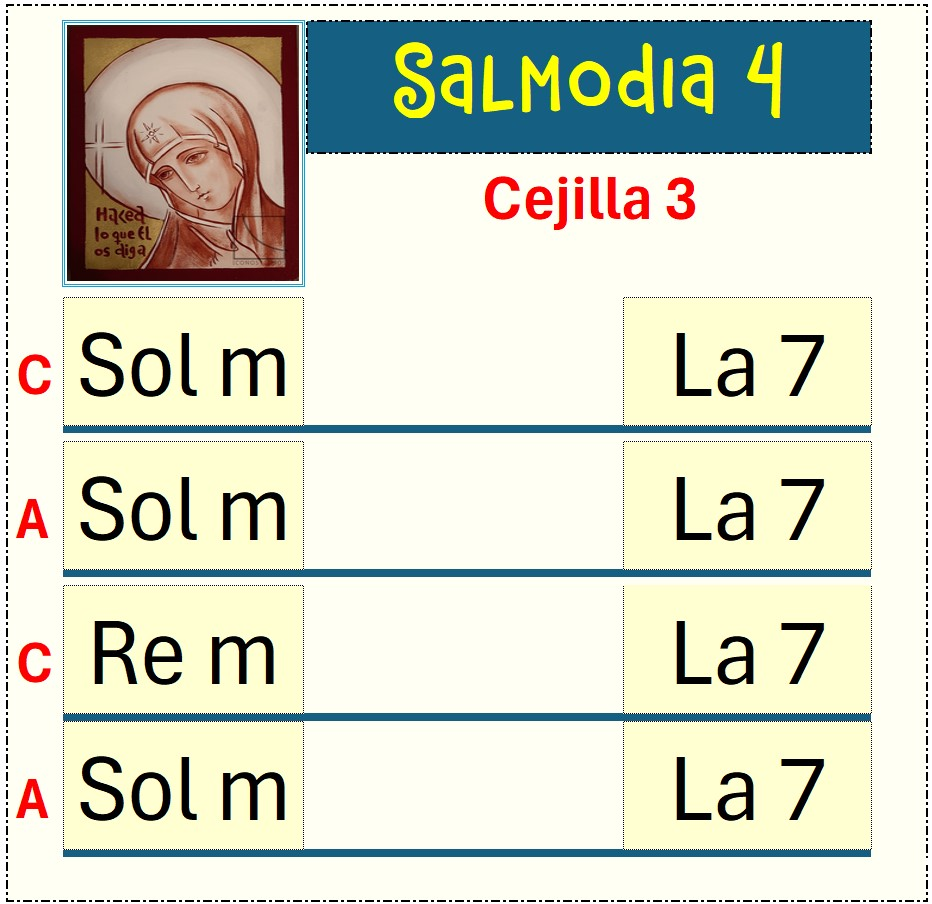
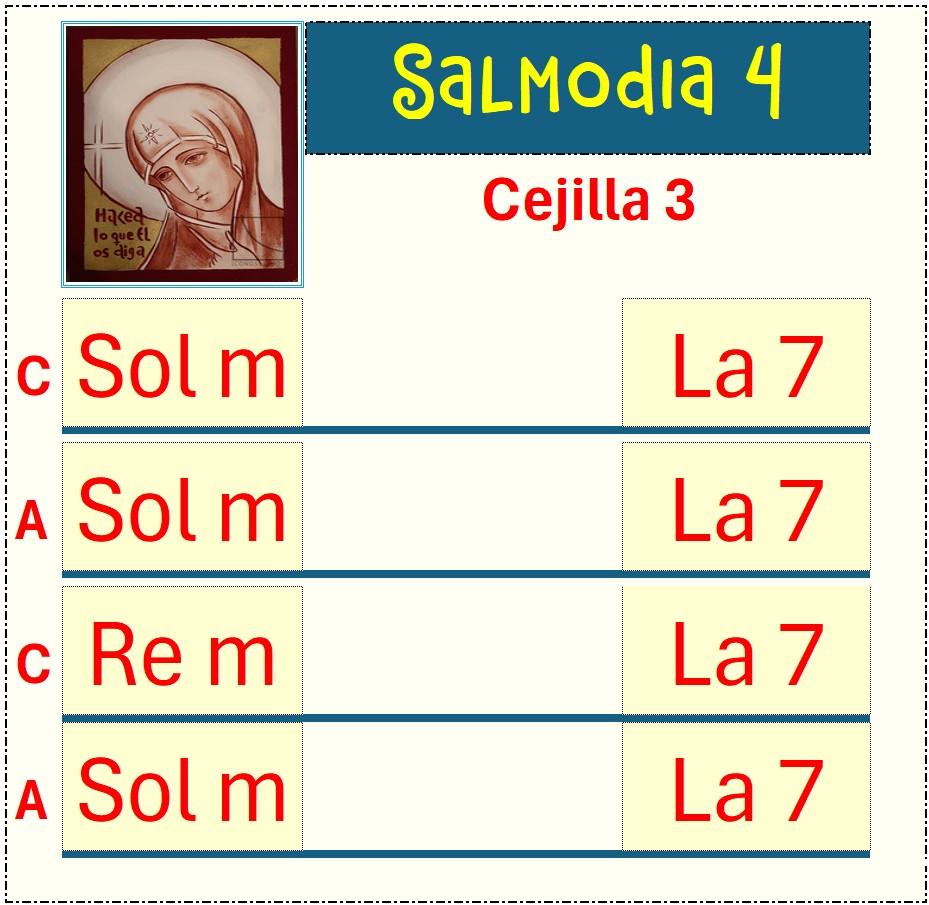
update

diff --git a/src/css/cssgral.css b/src/css/cssgral.css
@@ -133,6 +133,8 @@ body.dark-theme .cristo-oscuro {
     --TrasfondoCanto-Eleccion: rgba(206, 255, 207, 0.2); /* #CEFFCF con 20% de opacidad */
 
     --Cristal-Cristo: inherit;
+
+    --chord-color-salmodia: #FFFF00; /* Amarillo */
 } /* FIN DE ROOT */
 
 /* MODO OSCURO (Valores que camb0ian) */
@@ -717,7 +719,7 @@ display: none;}
 
 .modal-content {
     background-color: #fff;
-    padding: 30px;
+    padding: 4px;
     border-radius: 10px;
     box-shadow: 0 5px 20px rgba(0, 0, 0, 0.3);
     max-width: 400px;
@@ -1156,6 +1158,13 @@ hr {
 .chord-image-item.chord-color-la { background-color: var(--chord-color-la); }
 .chord-image-item.chord-color-la6 { background-color: var(--chord-color-la); }
 .chord-image-item.chord-color-si { background-color: var(--chord-color-si); }
+.chord-image-item.chord-color-salmodia { background-color: var(--chord-color-salmodia); }
+.chord-image-item.chord-color-salmodia1 { background-color: var(--chord-color-salmodia); }
+
+.chord-image-item.chord-color-salodia { background-color: var(--chord-color-salmodia); }
+.chord-image-item.chord-color-salodia1 { background-color: var(--chord-color-salmodia); }
+.chord-image-item.chord-color-sal { background-color: var(--chord-color-salmodia); }
+
 
 /* Sobrescribir el color del texto para los acordes de Mi a negro */
 
@@ -1163,24 +1172,70 @@ hr {
 .chord-image-item.chord-color-mi6 span {color: black;}
 .chord-image-item.chord-color-mia span {color: black;}
 .chord-image-item.chord-color-miaj span {color: black;}
+.chord-image-item.chord-color-salmodia span {color: black;}
+.chord-image-item.chord-color-salodia span {color: black;}
+.chord-image-item.chord-color-salodia1 span {color: black;}
+.chord-image-item.chord-color-sal span {color: black;}
 
 
 /* Estilos para la nueva modal de imagen grande */
-.modal-content.large-image-content {
+.modal-content.chord-color-salmodia {
     max-width: 90vw; /* Más ancho para la imagen grande */
-    max-height: 90vh; /* Más alto para la imagen grande */
-    padding: 10px; /* Reducir padding para que la imagen ocupe más espacio */
+    
+}
+.modal-content.large-image-content {
+
+    max-width: 40%;
+    /*max-height: auto; */
+
+/*  max-width: 90vw; /* Más ancho para la imagen grande */
+/*  max-height: 90vh; /* Más alto para la imagen grande */
+    /*padding: 10px; /* Reducir padding para que la imagen ocupe más espacio */
     background-color: transparent; /* Fondo transparente para la imagen */
     box-shadow: none; /* Sin sombra para la imagen */
 }
+/*    @media (min-width: 384px) {.modal-content.large-image-content {
+        max-width: 95%;
+        padding: 1px;
+        background: white;
+        border-radius: 12px 12px 12px 12px;
+    }}*/
+    @media (min-width: 384px) {.modal-content.large-image-content {max-width: 100%;}}
+    @media (min-width: 768px) {.modal-content.large-image-content {max-width: 80%;}}
+
+    @media (min-width: 992px) {.modal-content.large-image-content {
+        
+        max-width: 50%;
+        width: max-content;
+        
+    }}
+
 
 #largeChordImage {
     max-width: 100%;
     max-height: 100%;
     object-fit: contain; /* Asegura que la imagen se ajuste sin recortarse */
     display: block;
-    margin: auto; /* Centrar la imagen */
+    /*margin: auto; /* Centrar la imagen */
+    place-self: center;
 }
+    @media (min-width: 384px) {#largeChordImage {
+        max-width: 95%;
+        background: white;
+        padding: 4px;
+        border-radius: 7px;
+    }}
+    @media (min-width: 768px) {#largeChordImage {
+        max-width: 95%;
+        background: white;
+        padding: 4px;
+        border-radius: 7px;
+    }}
+    @media (min-width: 992px) {#largeChordImage {max-width: 650px;}}
+    
+
+
+
 
 
 .mso1, .mso2 {

diff --git a/src/js/jsgral.js b/src/js/jsgral.js
@@ -91,7 +91,7 @@ const chordImageFilenames = [
     "dot3.jpg",
     "dom.jpg",
     "do7.jpg",
-    "do72.jpg",
+    "do7x2.jpg",
     "dos.jpg", 
     "dos7.jpg", 
     "dosm.jpg", 
@@ -126,7 +126,7 @@ const chordImageFilenames = [
     "fas7.jpg", 
 
     "sol.jpg", 
-    "sol2.jpg", 
+    "solx2.jpg", 
     "sol3.jpg", 
     "solm.jpg", 
     "solm6.jpg", 
@@ -139,7 +139,7 @@ const chordImageFilenames = [
     "solsdim7.jpg", 
 
     "la.jpg", 
-    "la2.jpg", 
+    "lax2.jpg", 
     "la3.jpg", 
     "la6.jpg",
     "la7.jpg", 
@@ -151,13 +151,33 @@ const chordImageFilenames = [
     
     "si.jpg", 
     "si7.jpg", 
-    "si72.jpg", 
+    "si7x2.jpg", 
     "sib.jpg", 
     "sib7.jpg", 
     "sibm.jpg", 
     "sim.jpg",
-    
+    /*
+    salmodia1
+    salodia1
+    */
 
+    "salmodia1.jpg",
+    "salmodia2.jpg",
+    "salmodia3.jpg",
+    "salmodia4.jpg",
+    "salmodia5.jpg",
+    "salmodia6.jpg",
+    "salmodia7.jpg",
+    "salmodia8.jpg",
+    "salmodia9.jpg",
+    "salmodia10.jpg",
+    "salmodia11.jpg",
+    "salmodia12.jpg",
+    "salmodia13.jpg",
+    "salmodia14.jpg",
+    "salmodia15.jpg",
+    "salmodia16.jpg",
+    "salmodia17.jpg",
 
 ];
 
@@ -182,10 +202,18 @@ let nextCantoBtn;
 // 5 Función para obtener el nombre legible del acorde a partir del nombre del archivo
 const getDisplayNameFromFilename = (filename) => {
     let name = filename.split('.')[0];
+
+    // --- REGLA ESPECIAL PARA SALMODIA ---
+    // Si el nombre empieza por "salmodia", lo tratamos aparte
+    if (name.startsWith('salmodia')) {
+        // Reemplaza "salmodia" por "Salmodia " y deja el número intacto
+        return name.replace('salmodia', 'Salmodia');
+    }
+    
     // Reemplazar 's' por '#' para sostenidos (ej. 'dos' -> 'Do#')
     name = name.replace(/s$/, '#');
     name = name.replace(/s7$/, '#7');
-    name = name.replace(/2$/, '');
+    name = name.replace(/x2$/, '');
     name = name.replace(/sm$/, '#m');
     name = name.replace(/t3$/, '');
     name = name.replace(/s1$/, '#');
@@ -626,9 +654,18 @@ const openChordImagesModal = () => {
         const chordImageItem = document.createElement('div');
         chordImageItem.classList.add('chord-image-item');
 
+        // En salmodia me está quitando la m y tengo que hacer una excepción de este nuevo codigo
+        if (chordName.toLowerCase().includes("salmodia")) {
+                // Si es salmodia, solo quitamos el espacio para la clase, pero dejamos la 'm'
+                baseNoteForColor = "salmodia"; 
+            } else {
+                // Si es un acorde normal, seguimos con tu lógica original
+                baseNoteForColor = chordName.replace(/[#♭m79]/g, '').toLowerCase();
+            }
+
         // Determinar la nota base para la clase de color
-        let baseNoteForColor = chordName.replace(/[#♭m79]/g, ''); // Eliminar #, ♭, m, 7, 9 para obtener la nota base (Do, Re, Mi, etc.)
-        baseNoteForColor = baseNoteForColor.toLowerCase(); // Convertir a minúsculas para la clase CSS
+        /*let baseNoteForColor = chordName.replace(/[#♭m79]/g, ''); // Eliminar #, ♭, m, 7, 9 para obtener la nota base (Do, Re, Mi, etc.)
+        baseNoteForColor = baseNoteForColor.toLowerCase(); // Convertir a minúsculas para la clase CSS*/
 
         // Añadir una clase basada en la nota base para el estilo de color
         chordImageItem.classList.add(`chord-color-${baseNoteForColor}`);
